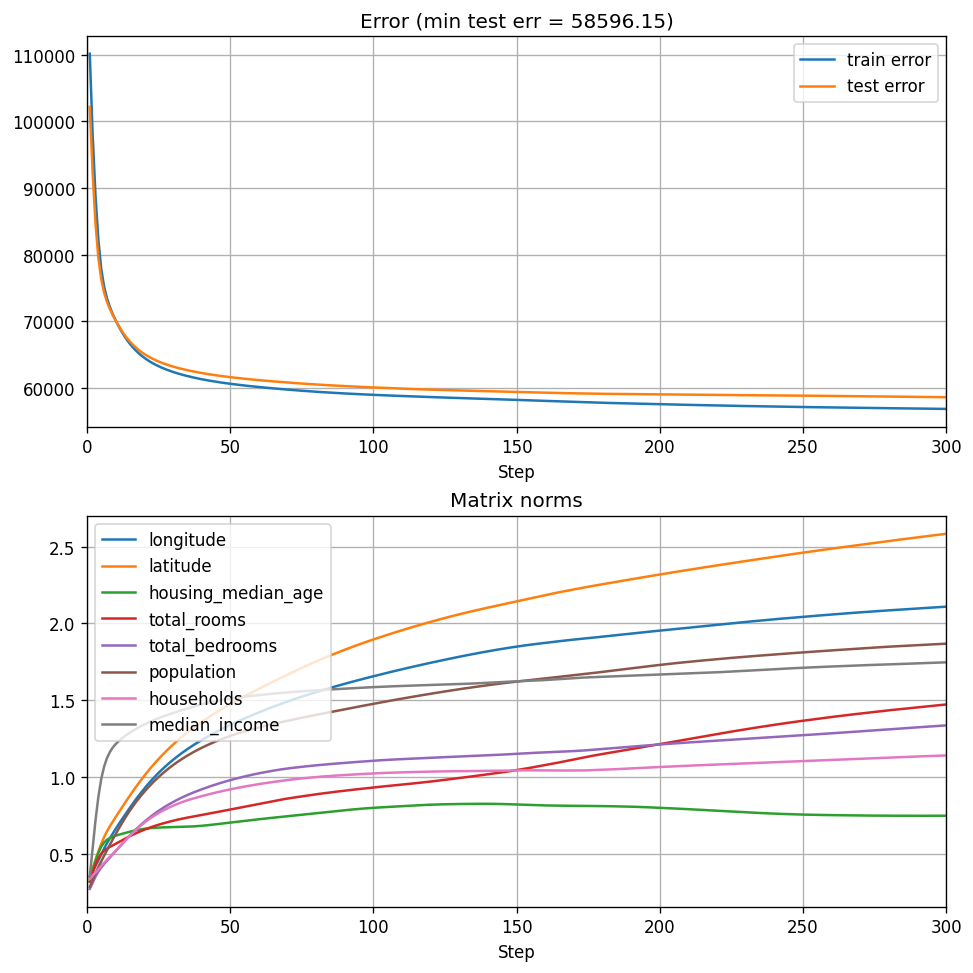
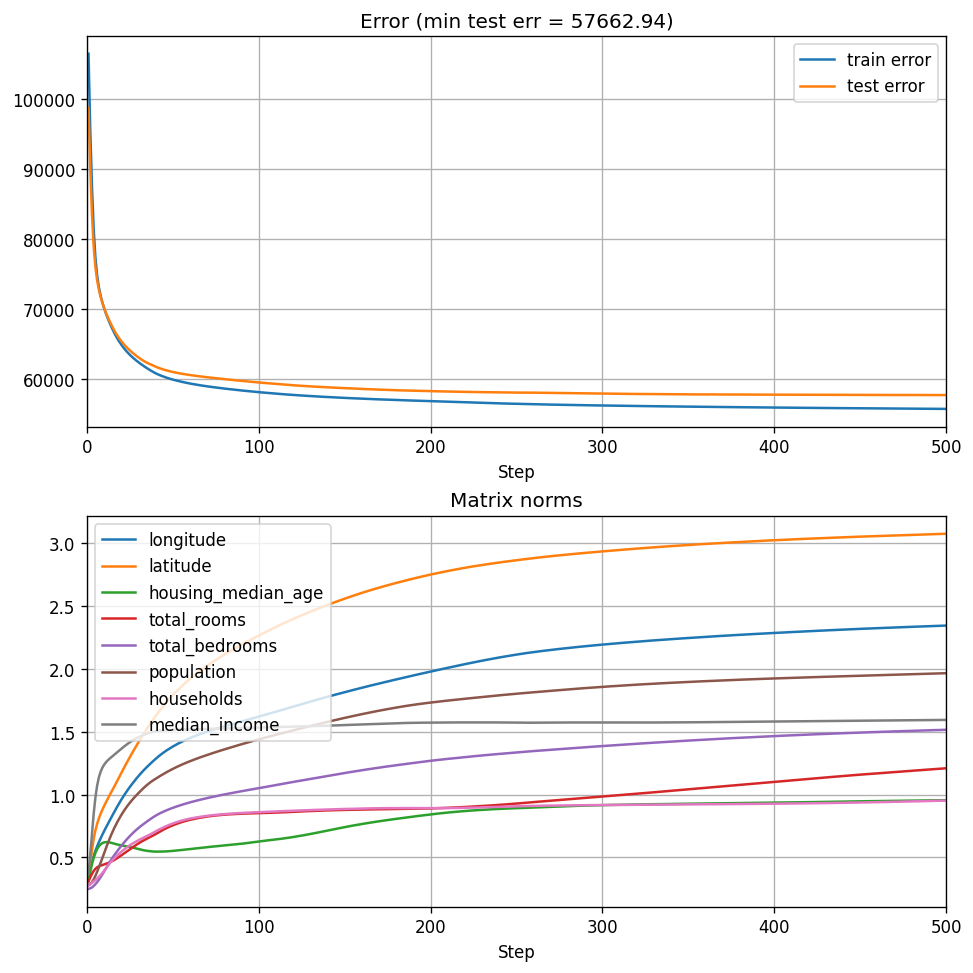
cosmetics

diff --git a/_posts/2026-01-01-Spectrum-Props.md b/_posts/2026-01-01-Spectrum-Props.md
@@ -180,15 +180,15 @@ $$
 \vert \lambda_k(\mathbf{A} + \mathbf{B}) - \lambda_k(\mathbf{A}) \vert \leq \|\mathbf{B}\|_{\mathrm{op}}.
 $$
 
-So if we take a symmetric matrix $$\mathbf{A}$$ and "corrupt" or "perturb" it by another symmetric matrix $$\mathbf{B}$$, the resulting eigenvalues do not change by more than $$\|\mathbf{B}\|_{\mathrm{op}}$$. 
+So if we take a symmetric matrix $$\mathbf{A}$$ and "corrupt" or "perturb" it by another symmetric matrix $$\mathbf{B}$$, the resulting eigenvalues do not change by more than {% raw %}$$\|\mathbf{B}\|_{\mathrm{op}}$${% endraw %}. 
 
-Now, consider our model family, and supposed that the first feature $$x_1$$ was perturbed by some noise $$\varepsilon$$. By the spectral stability property, our model's output will not change by more than $$|\varepsilon| \mathbf{A}_1$$. And in general, if our feature vector was perturbed by some noise $$\boldsymbol \varepsilon$$,  we have:
+Now, consider our model family, and supposed that the first feature $$x_1$$ was perturbed by some noise $$\varepsilon$$. By the spectral stability property, our model's output will not change by more than $$\lvert\varepsilon\rvert \mathbf{A}_1$$. And in general, if our feature vector was perturbed by some noise $$\boldsymbol \varepsilon$$,  we have:
 
 $$
 |f(\mathbf{x} + {\boldsymbol \varepsilon}) - f(\mathbf{x})| \leq \Biggl \|\sum_{i=1}^n \varepsilon_i \mathbf{A}_i \Biggr\|_{\mathrm{op}} \leq \sum_{i=1}^n |\varepsilon_i| \| \mathbf{A}_i \|_{\mathrm{op}}
 $$
 
-Now, we have two ways to interpret this bound. First, from the sandpoint of robustness - we have a direct bound on the possible change of the prediction as a function of the noise $$\boldsymbol \varepsilon$$. For example, if we care about the $$\ell_2$$ norm of the noise and want to know what happens our noise is bounded as $$\|\boldsymbol \varepsilon\|_2 \leq \alpha$$,  by the Cauchy-Schwartz inequality that the model's prediction changes by at most $$\alpha \sqrt{\sum_{i=1}^n \| \mathbf{A}_i \|^2_{\mathrm{op}}}$$.
+Now, we have two ways to interpret this bound. First, from the sandpoint of robustness - we have a direct bound on the possible change of the prediction as a function of the noise $$\boldsymbol \varepsilon$$. For example, if we care about the $$\ell_2$$ norm of the noise and want to know what happens our noise is bounded as {% raw %}$$\|\boldsymbol \varepsilon\|_2 \leq \alpha$${% endraw %},  by the Cauchy-Schwartz inequality that the model's prediction changes by at most {% raw %}$$\alpha \sqrt{\sum_{i=1}^n \| \mathbf{A}_i \|^2_{\mathrm{op}}}$${% endraw %}.
 
 The second way to think of the bound is from the standpoint of interpretability - the "importance" of feature $$x_i$$ is $$\| \mathbf{A}_i \|_{\mathrm{op}}$$, because a small change of $$\varepsilon$$ to feature $$x_i$$ will make the model's prediction change by at most $$\varepsilon \| \mathbf{A}_i \|_{\mathrm{op}}$$. So this operator norm is a bound on the _effect_ of feature $$x_i$$ on the model's prediction, just like the magnitude of the coefficients on a linear model.
 
@@ -448,7 +448,7 @@ def live_plot_training(dim, n_epochs):
     ))
     plot_progress(events, max_step=n_epochs)
 
-live_plot_training(5, 300)
+live_plot_training(5, 500)
 ```
 
 ![pow_spec_props_norms_5]({{"assets/pow_spec_props_norms_5.png" | absolute_url}})
@@ -482,7 +482,7 @@ As a reference, if you try fitting an gradient-boosted decision forest using XGB
 Another way we can use our understanding of the stability properties is to regularize the model by either imposing a bound on the maximum spectral norm, or adding a regularization term that penalizes the spectral norms, so our training code will be minimizing
 
 $$
-\min_{{\boldsymbol \mu},\mathbf{A}_{1:n}} \quad \underbrace{\frac{1}{N} \sum_{i=1}^N (f(\mathbf{x}_i;{\boldsymbol \mu},\mathbf{A}_{1:n}) - y_i)^2}_{\mathrm{loss}} + \underbrace{\alpha \sum_{i=1}^n \| \mathbf{A}_i \|_{\mathrm{op}}}_{\mathrm{penalty}}
+\min_{\mathbf{A}_{1:n}, \boldsymbol\mu} \quad \underbrace{\frac{1}{N} \sum_{i=1}^N (f(\mathbf{x}_i;\mathbf{A}_{1:n}, {\boldsymbol \mu}) - y_i)^2}_{\mathrm{loss}} + \underbrace{\alpha \sum_{i=1}^n \| \mathbf{A}_i \|_{\mathrm{op}}}_{\mathrm{penalty}}
 $$
 
 This is where we shall use the `regularizer` parameter of our training function that I promised you:
